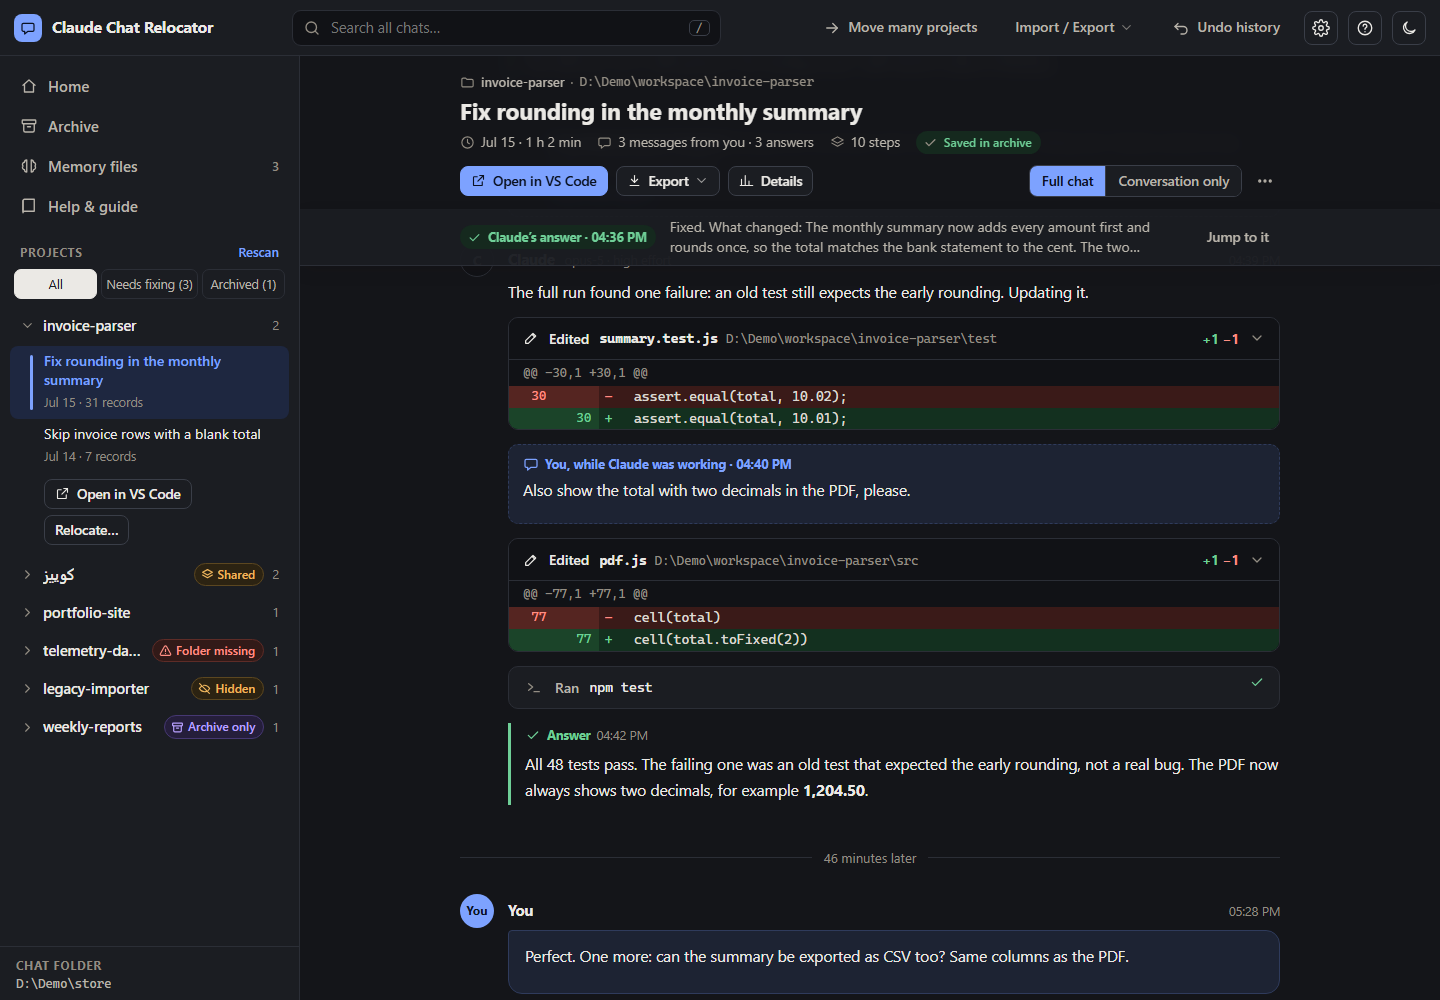
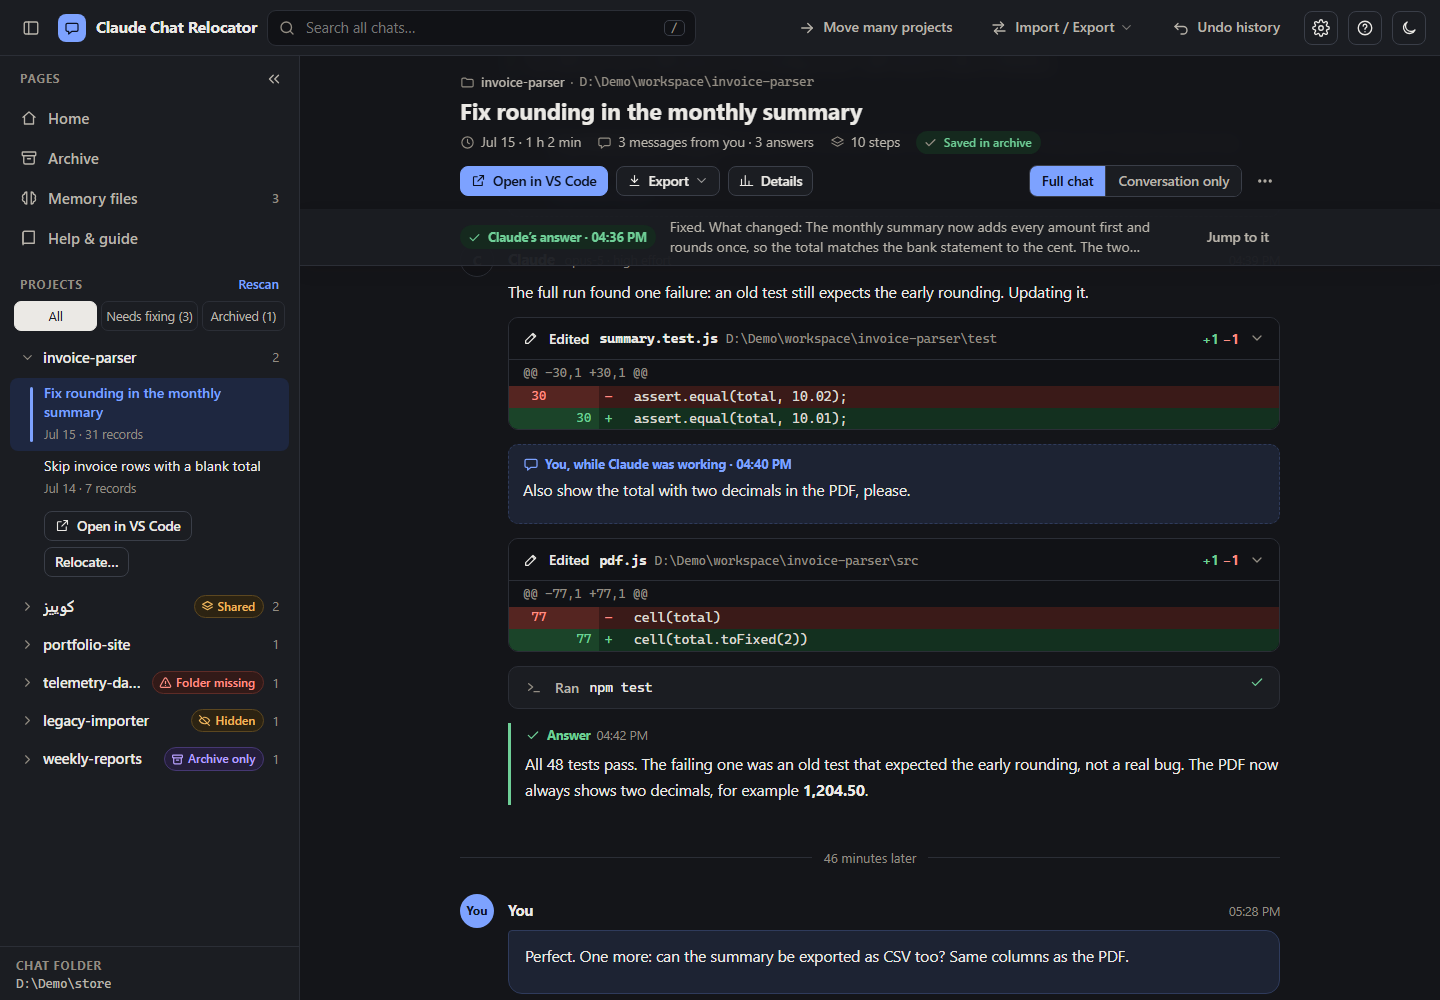
docs: new screenshots for the sidebar and top bar, and the new test count
Every screenshot shows the sidebar and the top bar, and both changed (a
sidebar button, a "Pages" heading with a narrow-it button), so all seven are
retaken from the demo store, the same way as before. They show only invented
project names and a neutral D:\Demo folder, and carry no text or EXIF chunks.

The README gains one sentence on the layout and the sidebar, and its test
count goes from 129 to 139.

diff --git a/README.md b/README.md
@@ -8,7 +8,7 @@ and bring back the ones VS Code can no longer find.**
 [![CI](https://github.com/amirtavakolihaghighi/claude-chat-relocator/actions/workflows/ci.yml/badge.svg)](https://github.com/amirtavakolihaghighi/claude-chat-relocator/actions/workflows/ci.yml)
 [![License: MIT](https://img.shields.io/badge/License-MIT-blue.svg)](LICENSE)
 [![Node](https://img.shields.io/badge/node-%E2%89%A520-brightgreen.svg)](https://nodejs.org)
-[![Tests](https://img.shields.io/badge/tests-129%20passing-brightgreen.svg)](test/)
+[![Tests](https://img.shields.io/badge/tests-139%20passing-brightgreen.svg)](test/)
 [![Version](https://img.shields.io/github/v/release/amirtavakolihaghighi/claude-chat-relocator)](https://github.com/amirtavakolihaghighi/claude-chat-relocator/releases)
 
 A local app for the chats the Claude Code VS Code extension keeps in
@@ -78,6 +78,10 @@ the quickest way to reread a long chat.
 
 Search every chat at once, and save any chat as a self-contained web page
 (prints to PDF), as Markdown, or as the original file.
+
+The layout follows the window, from a wide desktop screen down to a phone. The
+sidebar can be dragged wider or narrower, shrunk to icons, or closed, and on a
+small screen it slides over the page instead of squeezing it.
 
 ### Keep everything, permanently
 
@@ -161,7 +165,7 @@ This opens `http://127.0.0.1:4317` and needs Node 20 or newer.
 PORT=4400 npm start                        # a different port
 NO_OPEN=1 npm start                        # do not open a browser
 CLAUDE_PROJECTS_DIR=/some/copy npm start   # read chats from somewhere else
-npm test                                   # 129 tests; no real data touched
+npm test                                   # 139 tests; no real data touched
 npm run demo                               # a throwaway store showing every state
 npm run archive -- save                    # save to the archive from a terminal
 ```
